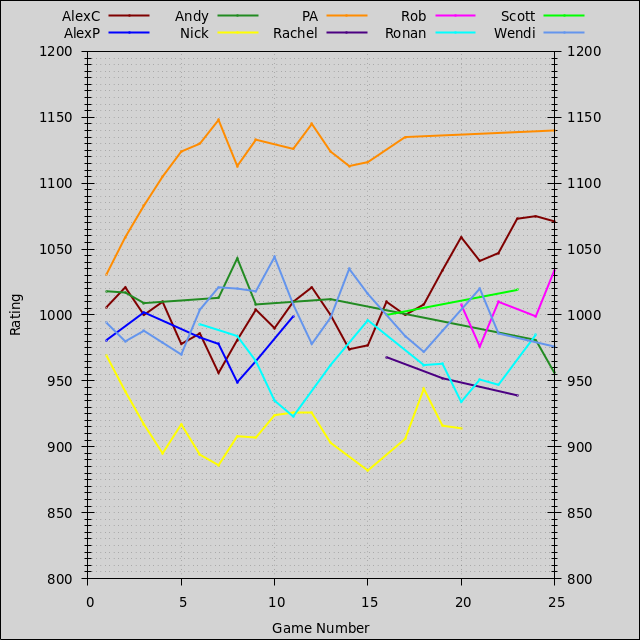
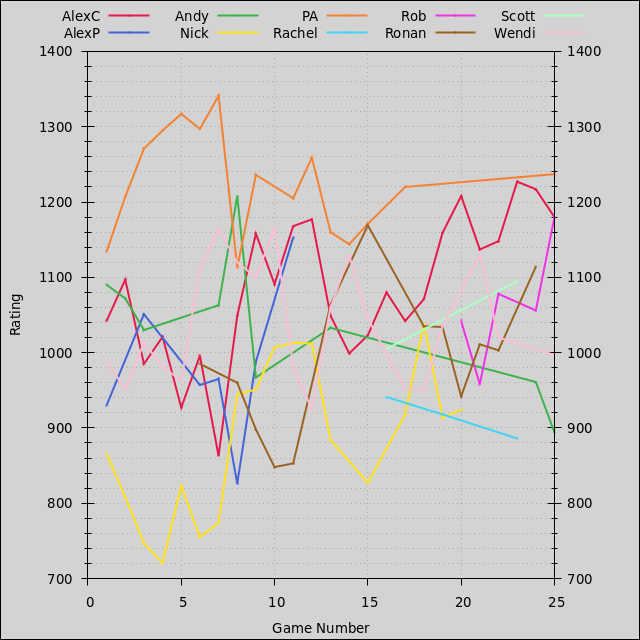
Update leaderboard.

diff --git a/leaderboard/README.md b/leaderboard/README.md
@@ -12,7 +12,7 @@
 - [Games](#games)
 - [License](#license)
 
-Last updated 2022-01-05 06:09 UTC.
+Last updated 2022-01-08 09:50 UTC.
 
 # Players
 
@@ -27,31 +27,31 @@ Last updated 2022-01-05 06:09 UTC.
 
 | **Player** | **Games** | **Current Rating** | **Avg Rating** | **Avg Points** | **1st Place** | **2nd Place** | **3rd Place** |
 | :--- | :---: | :---: | :---: | :---: | :---: | :---: | :---: |
-| AlexC | 25 | 1071 | 1013 | 7.96 | 16% (4) | 36% (9) | 32% (8) |
-| AlexP | 7 | 999 | 980 | 6.71 | 14% (1) | 14% (1) | 14% (1) |
-| Andy | 9 | 956 | 1006 | 8.11 | 11% (1) | 11% (1) | 33% (3) |
-| Eftychi | 1 | 969 | 969 | 0.00 | 0% (0) | 0% (0) | 0% (0) |
-| Jay | 1 | 994 | 994 | 4.00 | 0% (0) | 0% (0) | 0% (0) |
-| Jess | 1 | 1006 | 1006 | 4.00 | 0% (0) | 0% (0) | 100% (1) |
-| Nick | 18 | 914 | 915 | 6.22 | 6% (1) | 17% (3) | 17% (3) |
-| PA | 16 | 1140 | 1114 | 9.25 | 56% (9) | 25% (4) | 6% (1) |
-| Rachel | 3 | 939 | 953 | 5.33 | 0% (0) | 0% (0) | 33% (1) |
-| Rob | 5 | 1034 | 1005 | 9.20 | 40% (2) | 20% (1) | 20% (1) |
-| Ronan | 13 | 985 | 962 | 7.62 | 23% (3) | 8% (1) | 15% (2) |
-| Scott | 2 | 1019 | 1009 | 9.50 | 0% (0) | 100% (2) | 0% (0) |
-| Wendi | 21 | 976 | 999 | 7.48 | 19% (4) | 14% (3) | 19% (4) |
+| AlexC | 25 | 1180 | 1084 | 7.96 | 16% (4) | 36% (9) | 32% (8) |
+| AlexP | 7 | 1153 | 981 | 6.71 | 14% (1) | 14% (1) | 14% (1) |
+| Andy | 9 | 894 | 1035 | 8.11 | 11% (1) | 11% (1) | 33% (3) |
+| Eftychi | 1 | 868 | 868 | 0.00 | 0% (0) | 0% (0) | 0% (0) |
+| Jay | 1 | 991 | 991 | 4.00 | 0% (0) | 0% (0) | 0% (0) |
+| Jess | 1 | 1044 | 1044 | 4.00 | 0% (0) | 0% (0) | 100% (1) |
+| Nick | 18 | 924 | 885 | 6.22 | 6% (1) | 17% (3) | 17% (3) |
+| PA | 16 | 1237 | 1225 | 9.25 | 56% (9) | 25% (4) | 6% (1) |
+| Rachel | 3 | 886 | 915 | 5.33 | 0% (0) | 0% (0) | 33% (1) |
+| Rob | 5 | 1180 | 1063 | 9.20 | 40% (2) | 20% (1) | 20% (1) |
+| Ronan | 13 | 1114 | 994 | 7.62 | 23% (3) | 8% (1) | 15% (2) |
+| Scott | 2 | 1095 | 1050 | 9.50 | 0% (0) | 100% (2) | 0% (0) |
+| Wendi | 21 | 997 | 1037 | 7.48 | 19% (4) | 14% (3) | 19% (4) |
 
 [(Back to Players)](#players)
 
 ## Players: Ratings
 
-![Ratings Plot](players/ratings.png)
+![Players Ratings Plot](players/ratings.png)
 
 [(Back to Players)](#players)
 
 ## Players: Average Victory Points per Game
 
-![Points Plot](players/points.png)
+![Players Points Plot](players/points.png)
 
 Victory points are adjusted relative to a 10-point game.
 
@@ -59,7 +59,7 @@ Victory points are adjusted relative to a 10-point game.
 
 ## Players: Win Rates
 
-![Win Rates Plot](players/winrates.png)
+![Players Win Rates Plot](players/winrates.png)
 
 [(Back to Players)](#players)
 
@@ -74,25 +74,52 @@ Victory points are adjusted relative to a 10-point game.
 
 ## Factions: Summary
 
-Coming soon!
+| **Player** | **Games** | **Current Rating** | **Avg Rating** | **Avg Points** | **1st Place** | **2nd Place** | **3rd Place** |
+| :--- | :---: | :---: | :---: | :---: | :---: | :---: | :---: |
+| Arborec | 3 | 1062 | 1009 | 7.67 | 0% (0) | 67% (2) | 0% (0) |
+| Argent Flight | 10 | 1122 | 1109 | 8.30 | 40% (4) | 20% (2) | 10% (1) |
+| Barony of Letnev | 5 | 953 | 967 | 7.60 | 20% (1) | 0% (0) | 20% (1) |
+| Clan of Saar | 6 | 1213 | 1174 | 9.17 | 50% (3) | 17% (1) | 33% (2) |
+| Embers of Muaat | 2 | 945 | 899 | 7.50 | 0% (0) | 0% (0) | 50% (1) |
+| Emirates of Hacan | 3 | 930 | 1051 | 7.33 | 33% (1) | 33% (1) | 0% (0) |
+| Empyrean | 5 | 889 | 1019 | 7.20 | 20% (1) | 0% (0) | 0% (0) |
+| Federation of Sol | 7 | 1035 | 1028 | 8.14 | 14% (1) | 0% (0) | 86% (6) |
+| Ghosts of Creuss | 1 | 1071 | 1071 | 9.00 | 0% (0) | 100% (1) | 0% (0) |
+| L1z1x Mindnet | 5 | 1043 | 1064 | 7.80 | 20% (1) | 40% (2) | 20% (1) |
+| Mahact Gene-Sorcerers | 5 | 933 | 958 | 6.20 | 0% (0) | 40% (2) | 20% (1) |
+| Mentak Coalition | 2 | 1092 | 1033 | 8.00 | 0% (0) | 50% (1) | 50% (1) |
+| Naalu Collective | 3 | 1140 | 1108 | 9.00 | 67% (2) | 0% (0) | 0% (0) |
+| Naaz-Rokha Alliance | 8 | 932 | 1050 | 7.50 | 25% (2) | 12% (1) | 25% (2) |
+| Nekro Virus | 4 | 796 | 846 | 6.75 | 0% (0) | 25% (1) | 0% (0) |
+| Nomad | 3 | 867 | 937 | 5.67 | 0% (0) | 0% (0) | 33% (1) |
+| Sardakk N'orr | 3 | 1081 | 1082 | 6.00 | 33% (1) | 0% (0) | 33% (1) |
+| Titans of Ul | 5 | 1121 | 1075 | 9.20 | 40% (2) | 20% (1) | 20% (1) |
+| Universities of Jol-Nar | 7 | 1162 | 1027 | 7.14 | 14% (1) | 29% (2) | 14% (1) |
+| Vuil'raith Cabal | 11 | 1125 | 922 | 7.64 | 9% (1) | 27% (3) | 9% (1) |
+| Winnu | 4 | 1103 | 1085 | 7.25 | 50% (2) | 0% (0) | 50% (2) |
+| Xxcha Kingdom | 3 | 1005 | 991 | 7.67 | 0% (0) | 67% (2) | 0% (0) |
+| Yin Brotherhood | 2 | 923 | 916 | 6.00 | 0% (0) | 0% (0) | 0% (0) |
+| Yssaril Tribes | 2 | 1029 | 1009 | 7.50 | 0% (0) | 50% (1) | 0% (0) |
 
 [(Back to Factions)](#factions)
 
 ## Factions: Ratings
 
-Coming soon!
+![Factions Ratings Plot](factions/ratings.png)
 
 [(Back to Factions)](#factions)
 
 ## Factions: Average Victory Points per Game
 
-Coming soon!
+![Factions Points Plot](factions/points.png)
+
+Victory points are adjusted relative to a 10-point game.
 
 [(Back to Factions)](#factions)
 
 ## Factions: Win Rates
 
-Coming soon!
+![Factions Win Rates Plot](factions/winrates.png)
 
 [(Back to Factions)](#factions)
 
